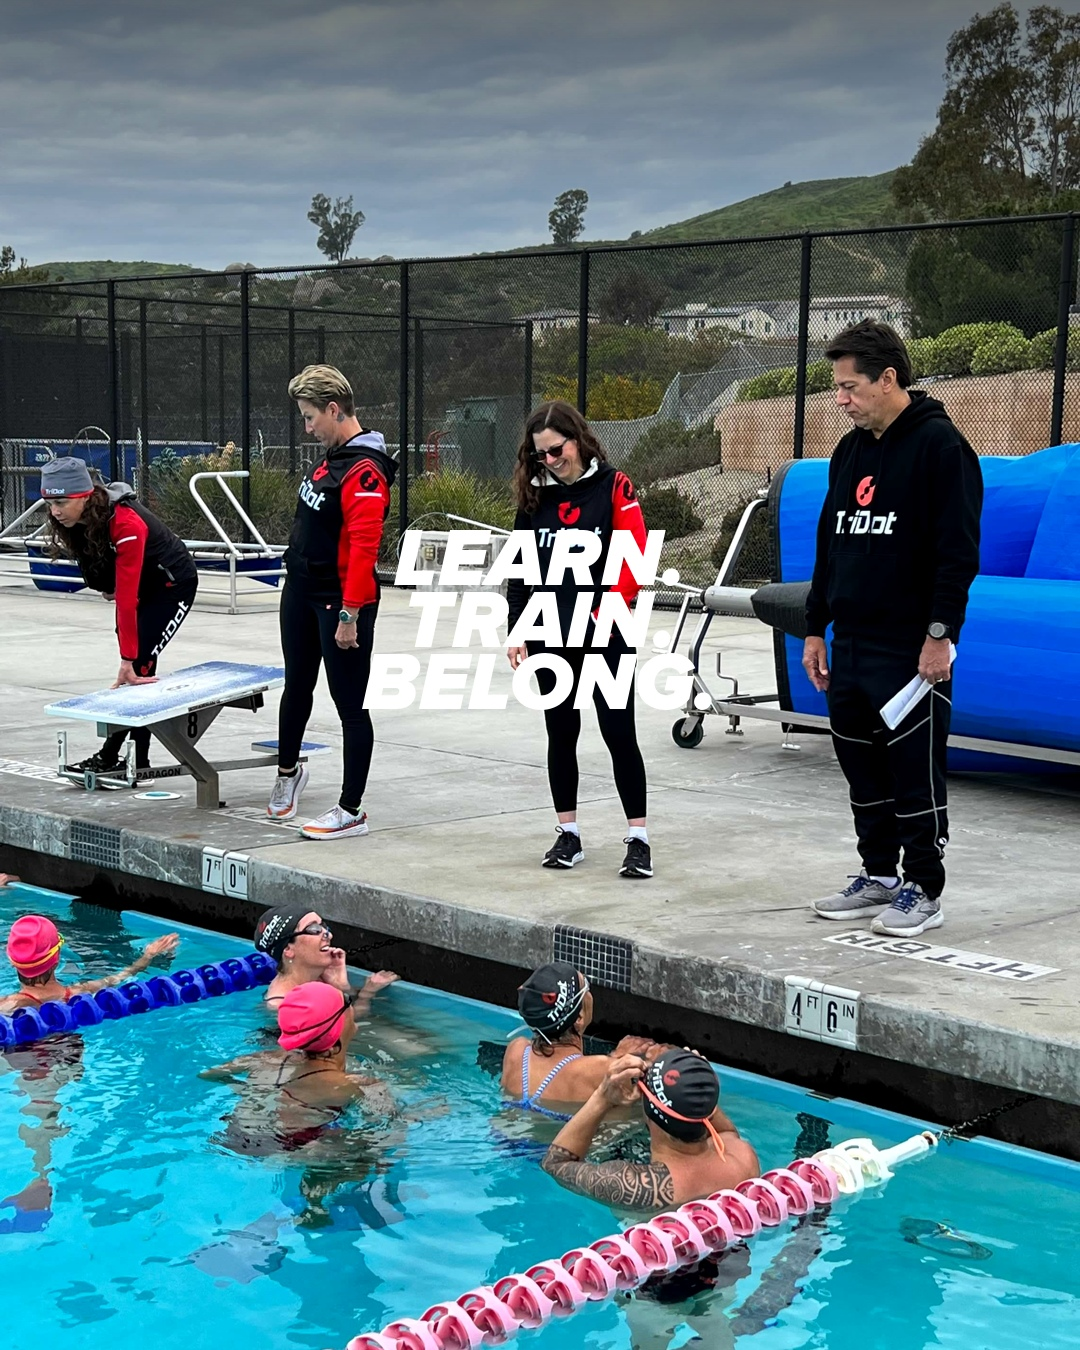
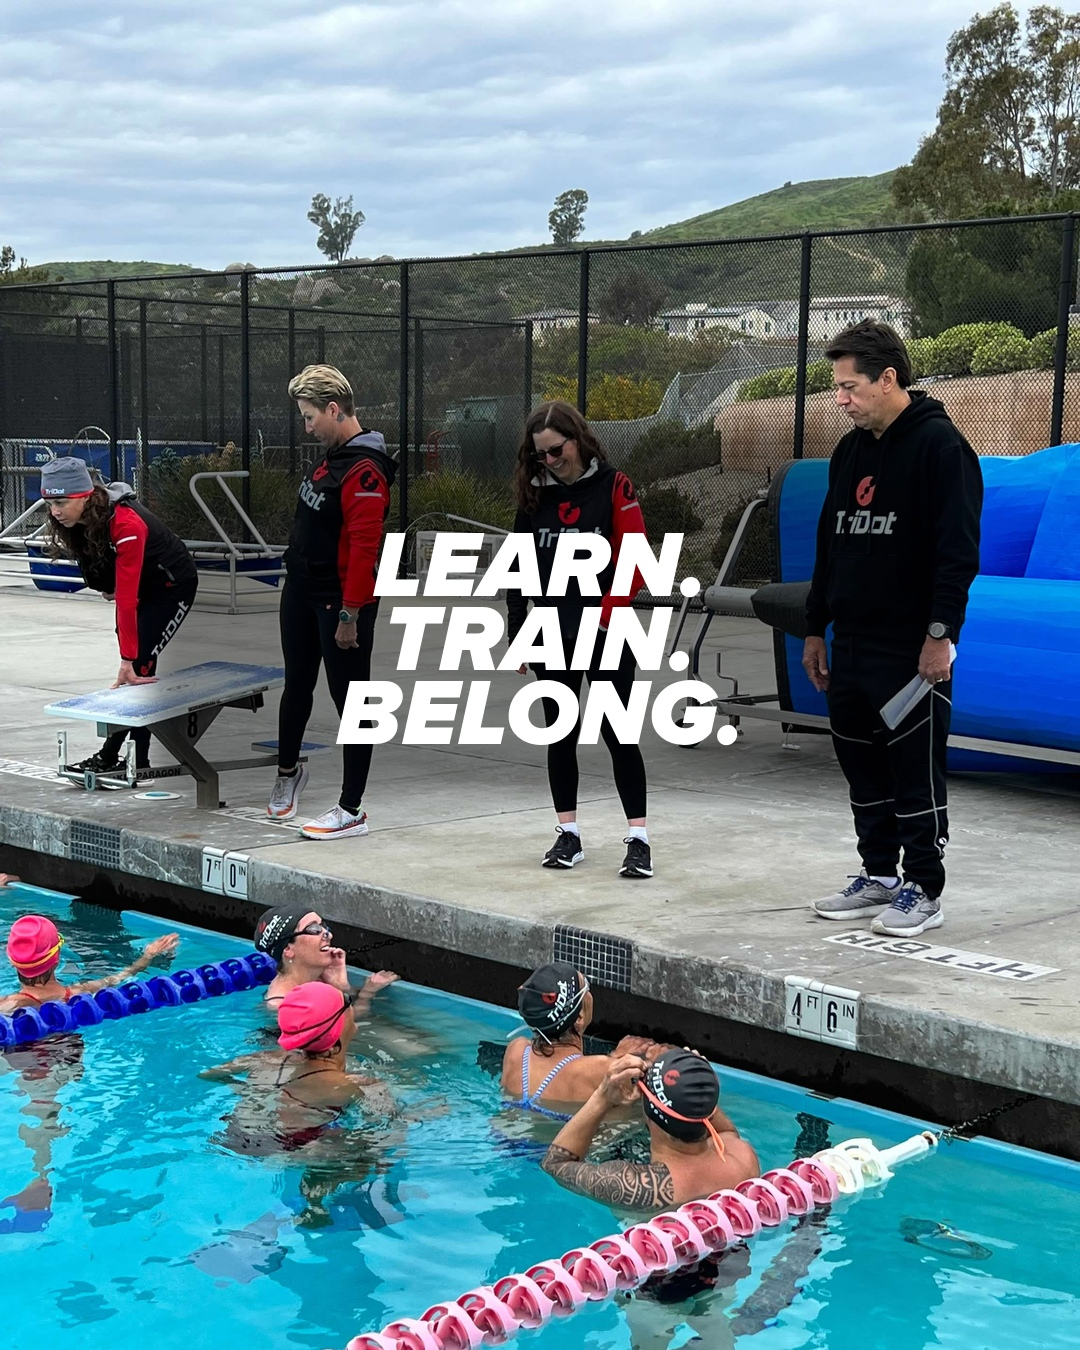
Refine community overlay and performance proof point

diff --git a/austin-pool-school-review/index.html b/austin-pool-school-review/index.html
@@ -15,5 +15,5 @@ const posts=[
 ['08-detail-matters.jpg','VALUE','The details make the difference','Small technique changes can lead to meaningful progress. Get focused coaching and drills designed to help you apply it back in your own training.'],
 ['09-personal-feedback.jpg','VALUE','Real-time feedback','See it. Understand it. Practice it. Bring your swim questions to Austin and leave with practical tools for your next session.'],
 ['10-austin-register-now.jpg','EVENT PROMO','Austin Pool School: Register now','July 25–26, 2026 · Austin Aquatics and Sports Academy · $599\n\nYour next opportunity to break out of the dreaded swim plateau starts here. Register now.']
-];let i=0;const $=id=>document.getElementById(id);function render(){let p=posts[i];$('title').textContent=`Post ${i+1} of ${posts.length}`;$('graphic').src='./assets/'+p[0]+'?v=dark-footer-restored-two-exceptions-20260710';$('headline').textContent=p[2];$('caption').textContent=p[3];$('type').textContent=p[1];$('prev').disabled=i===0;$('next').disabled=i===posts.length-1;$('thumbs').innerHTML=posts.map((x,n)=>`<button class="thumb ${n===i?'active':''}" aria-label="View post ${n+1}" onclick="go(${n})"><img src="./assets/${x[0]}?v=dark-footer-restored-two-exceptions-20260710"></button>`).join('')};function go(n){i=n;render()}$('prev').onclick=()=>go(i-1);$('next').onclick=()=>go(i+1);document.addEventListener('keydown',e=>{if(e.key==='ArrowLeft'&&i)go(i-1);if(e.key==='ArrowRight'&&i<posts.length-1)go(i+1)});render();
+];let i=0;const $=id=>document.getElementById(id);function render(){let p=posts[i];$('title').textContent=`Post ${i+1} of ${posts.length}`;$('graphic').src='./assets/'+p[0]+'?v=dark-footer-refined-20260710';$('headline').textContent=p[2];$('caption').textContent=p[3];$('type').textContent=p[1];$('prev').disabled=i===0;$('next').disabled=i===posts.length-1;$('thumbs').innerHTML=posts.map((x,n)=>`<button class="thumb ${n===i?'active':''}" aria-label="View post ${n+1}" onclick="go(${n})"><img src="./assets/${x[0]}?v=dark-footer-refined-20260710"></button>`).join('')};function go(n){i=n;render()}$('prev').onclick=()=>go(i-1);$('next').onclick=()=>go(i+1);document.addEventListener('keydown',e=>{if(e.key==='ArrowLeft'&&i)go(i-1);if(e.key==='ArrowRight'&&i<posts.length-1)go(i+1)});render();
 </script></body></html>
